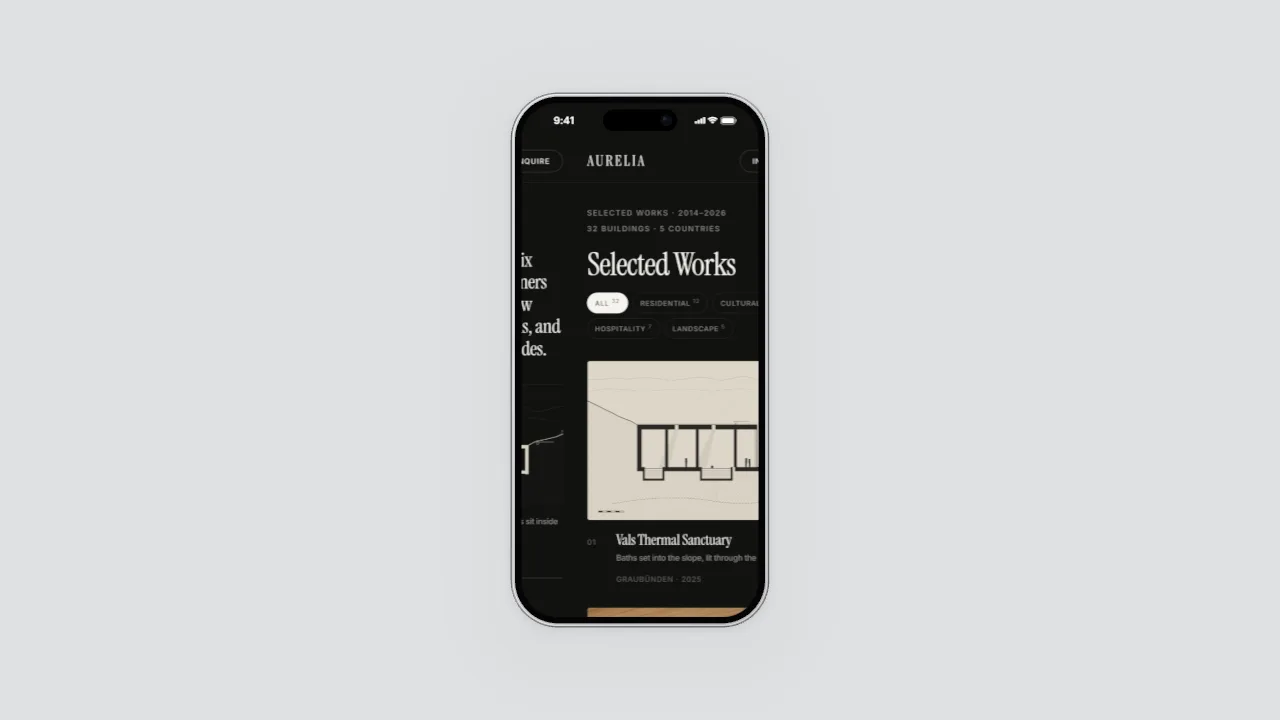
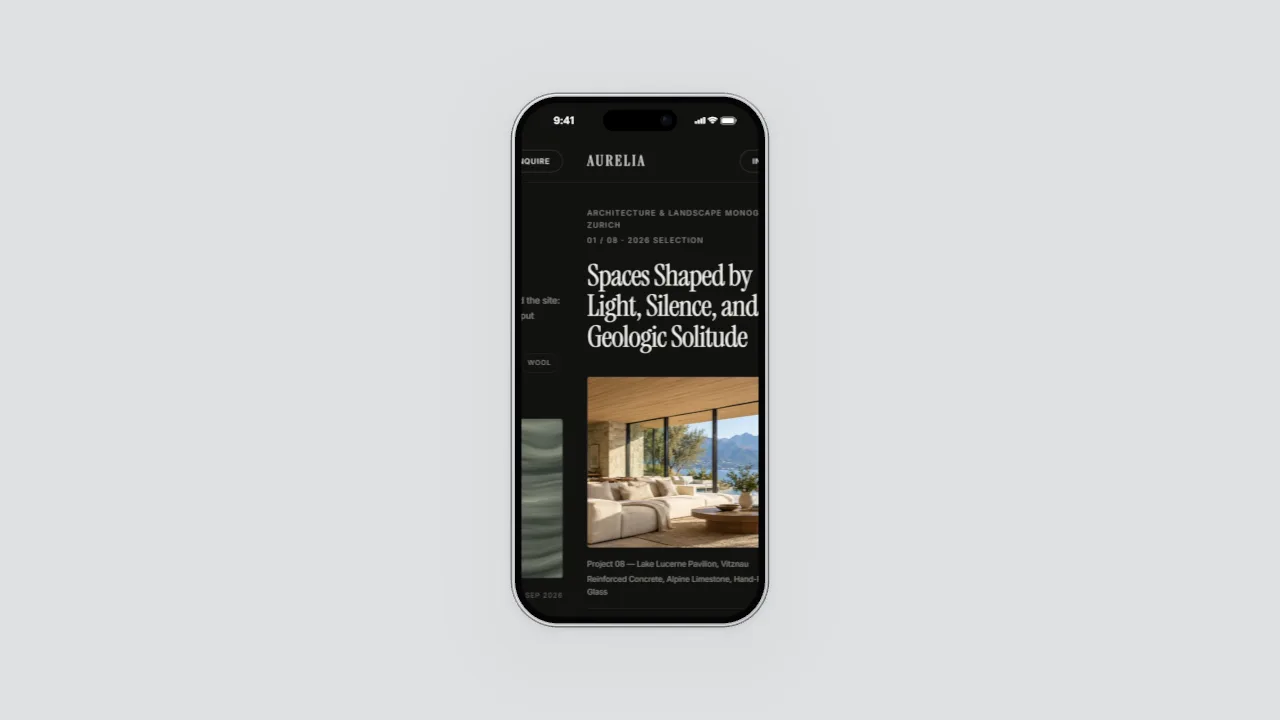
T1: Mobile Site Tour's gallery poster at 6.8 s
With Aurelia's dark pages, Mobile Site Tour's 35% frame (2.8 s) is a
small phone of text and a line drawing on the flat fill: 11,462 bytes,
under the 15 KiB that tests/template-previews.test.ts asks of a real
poster. At 6.8 s, mid-step, the photographic home page slides in as
Journal's stone texture leaves, which shows the tour better (16,804
bytes). Only the poster changes; the WebM is the same.

Claude-Session: https://claude.ai/code/session_0198efUSNt2h4QK6YvibfxTV

Changed region(s): [[0.4062, 0.275, 0.5938, 0.8556]]

diff --git a/scripts/template-previews.ts b/scripts/template-previews.ts
@@ -33,8 +33,13 @@ const MAX_BUDGET_ATTEMPTS = 4;
 const BUDGET_HEADROOM = 0.97;
 const POSTER_TIME_FRACTION = 0.35;
 // Templates whose 35% frame doesn't show them best. Responsive Scroll's is Aurelia's dark works
-// section; its first hold shows the photographic hero on both screens.
-const POSTER_TIME_FRACTION_BY_TEMPLATE: Record<string, number> = { "responsive-scroll": 0.05 };
+// section; its first hold shows the photographic hero on both screens. Mobile Site Tour's is a
+// small phone of dark text pages; at 6.8 s the photographic home page slides in as Journal's
+// stone texture leaves.
+const POSTER_TIME_FRACTION_BY_TEMPLATE: Record<string, number> = {
+  "responsive-scroll": 0.05,
+  "mobile-site-tour": 0.85,
+};
 // Posters show until a card is hovered, so they are 2x the video (1280x720) for sharp cards.
 const POSTER_RESOLUTION = 720;
 const POSTER_WEBP_QUALITY = 82;
@@ -163,7 +168,8 @@ async function main(): Promise<void> {
           {
             id: template.id,
             settings: PREVIEW_SETTINGS,
-            posterTime: total * (POSTER_TIME_FRACTION_BY_TEMPLATE[template.id] ?? POSTER_TIME_FRACTION),
+            posterTime:
+              total * (POSTER_TIME_FRACTION_BY_TEMPLATE[template.id] ?? POSTER_TIME_FRACTION),
             posterResolution: POSTER_RESOLUTION,
             videoBitrate,
           },
